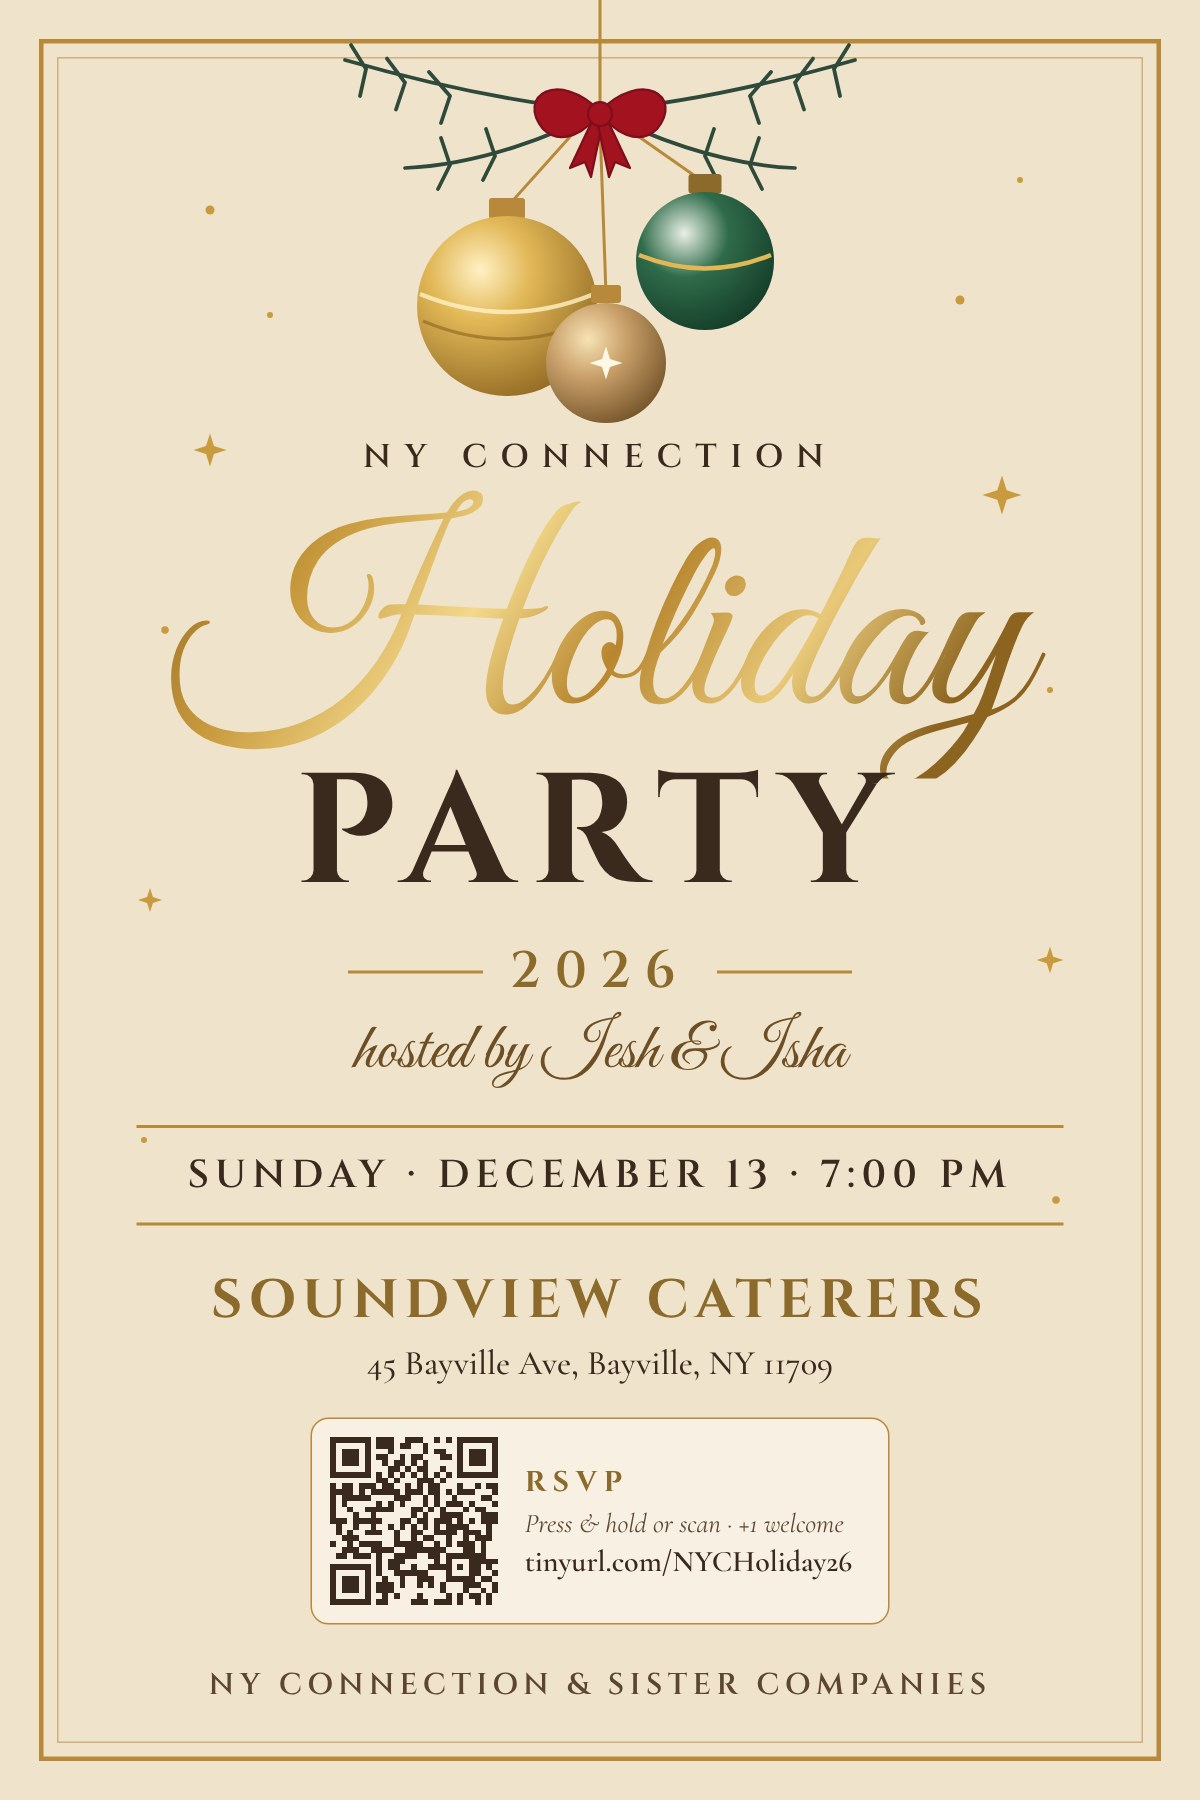
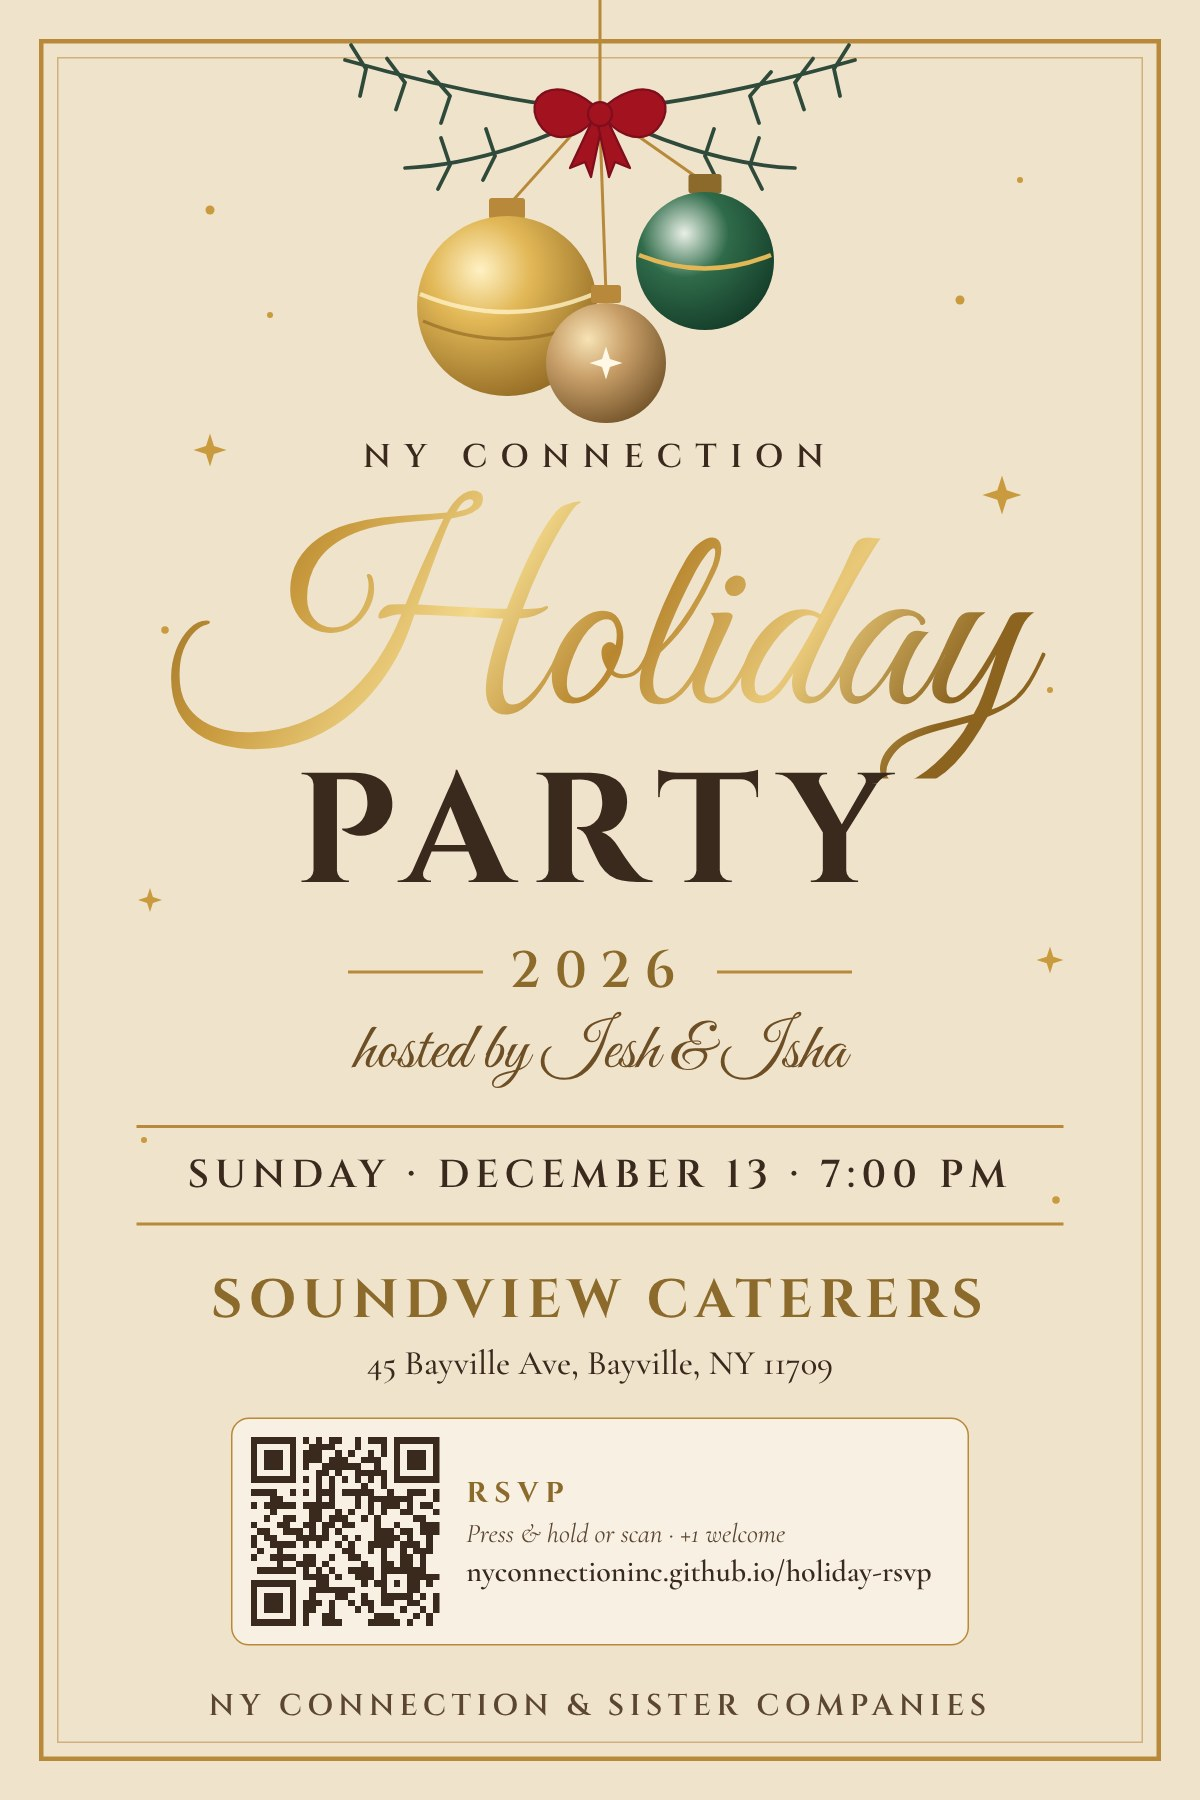
Update invite preview image with RSVP QR
Claude-Session: https://claude.ai/code/session_018C7nUaztCZJdwikyjEHzLF

Changed region(s): [[0.185, 0.7778, 0.8325, 0.9644]]

diff --git a/index.html b/index.html
@@ -8,7 +8,7 @@
 <meta property="og:type" content="website">
 <meta property="og:title" content="You're invited: NY Connection Holiday Party 2026">
 <meta property="og:description" content="Sunday, Dec 13 · 7:00 PM · Soundview Caterers, Bayville. Tap to RSVP (+1 welcome).">
-<meta property="og:image" content="https://nyconnectioninc.github.io/holiday-rsvp/invite.jpg">
+<meta property="og:image" content="https://nyconnectioninc.github.io/holiday-rsvp/invite.jpg?v=2">
 <meta property="og:image:width" content="1200">
 <meta property="og:image:height" content="1800">
 <meta property="og:url" content="https://nyconnectioninc.github.io/holiday-rsvp/">
